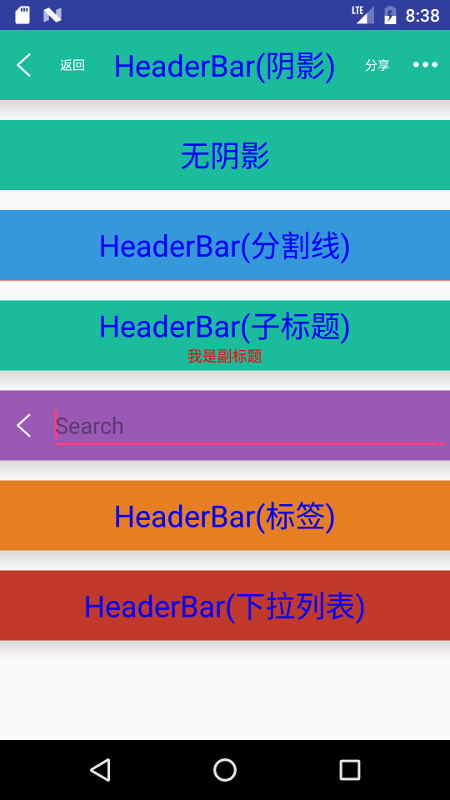
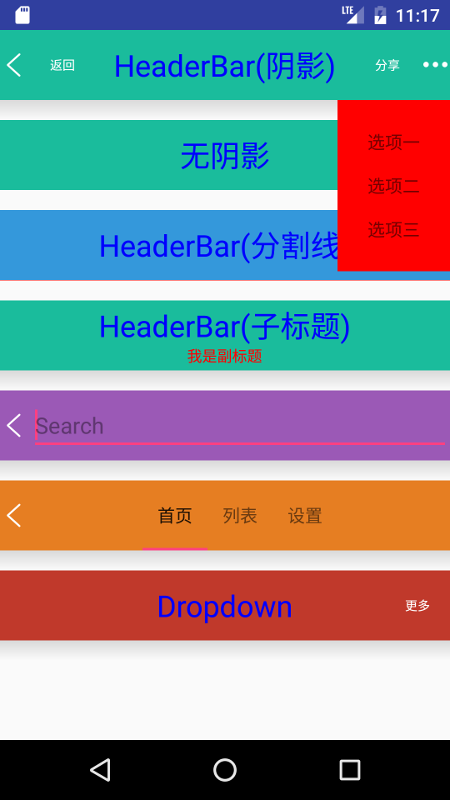
release v0.8

diff --git a/README.md b/README.md
@@ -8,7 +8,7 @@ a common header bar ui for android
 ## Gradle
 
 ```groovy
-compile('com.jayfeng:lesscode-lesscode:0.6');
+compile('com.jayfeng:lesscode-lesscode:0.8');
 ```
 
 ## Overview
@@ -16,7 +16,7 @@ compile('com.jayfeng:lesscode-lesscode:0.6');
 > * 支持副标题
 > * 支持阴影
 > * 支持搜索
-> * 支持下拉菜单(待开发)
+> * 支持弹窗
 > * 使用非常简单
 
 ## Usage
